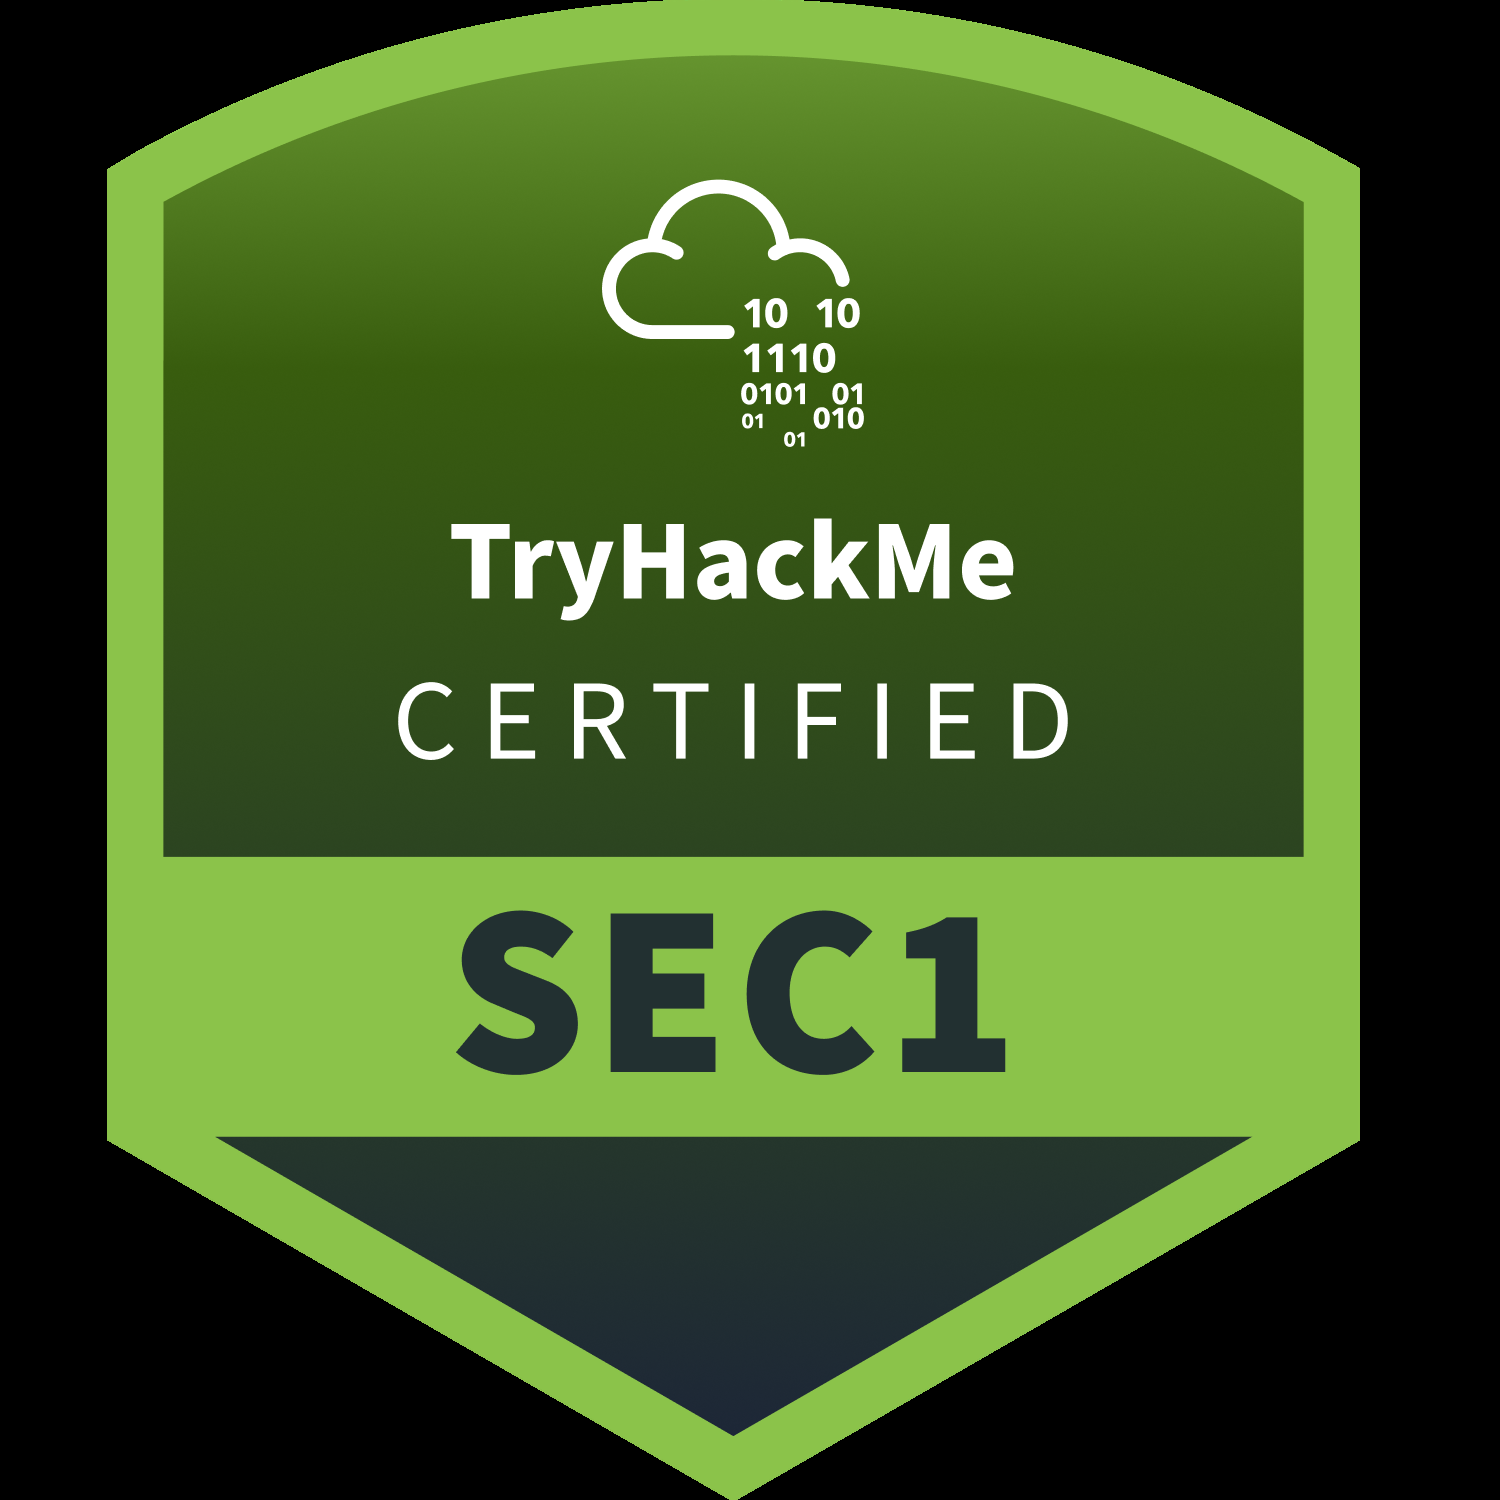
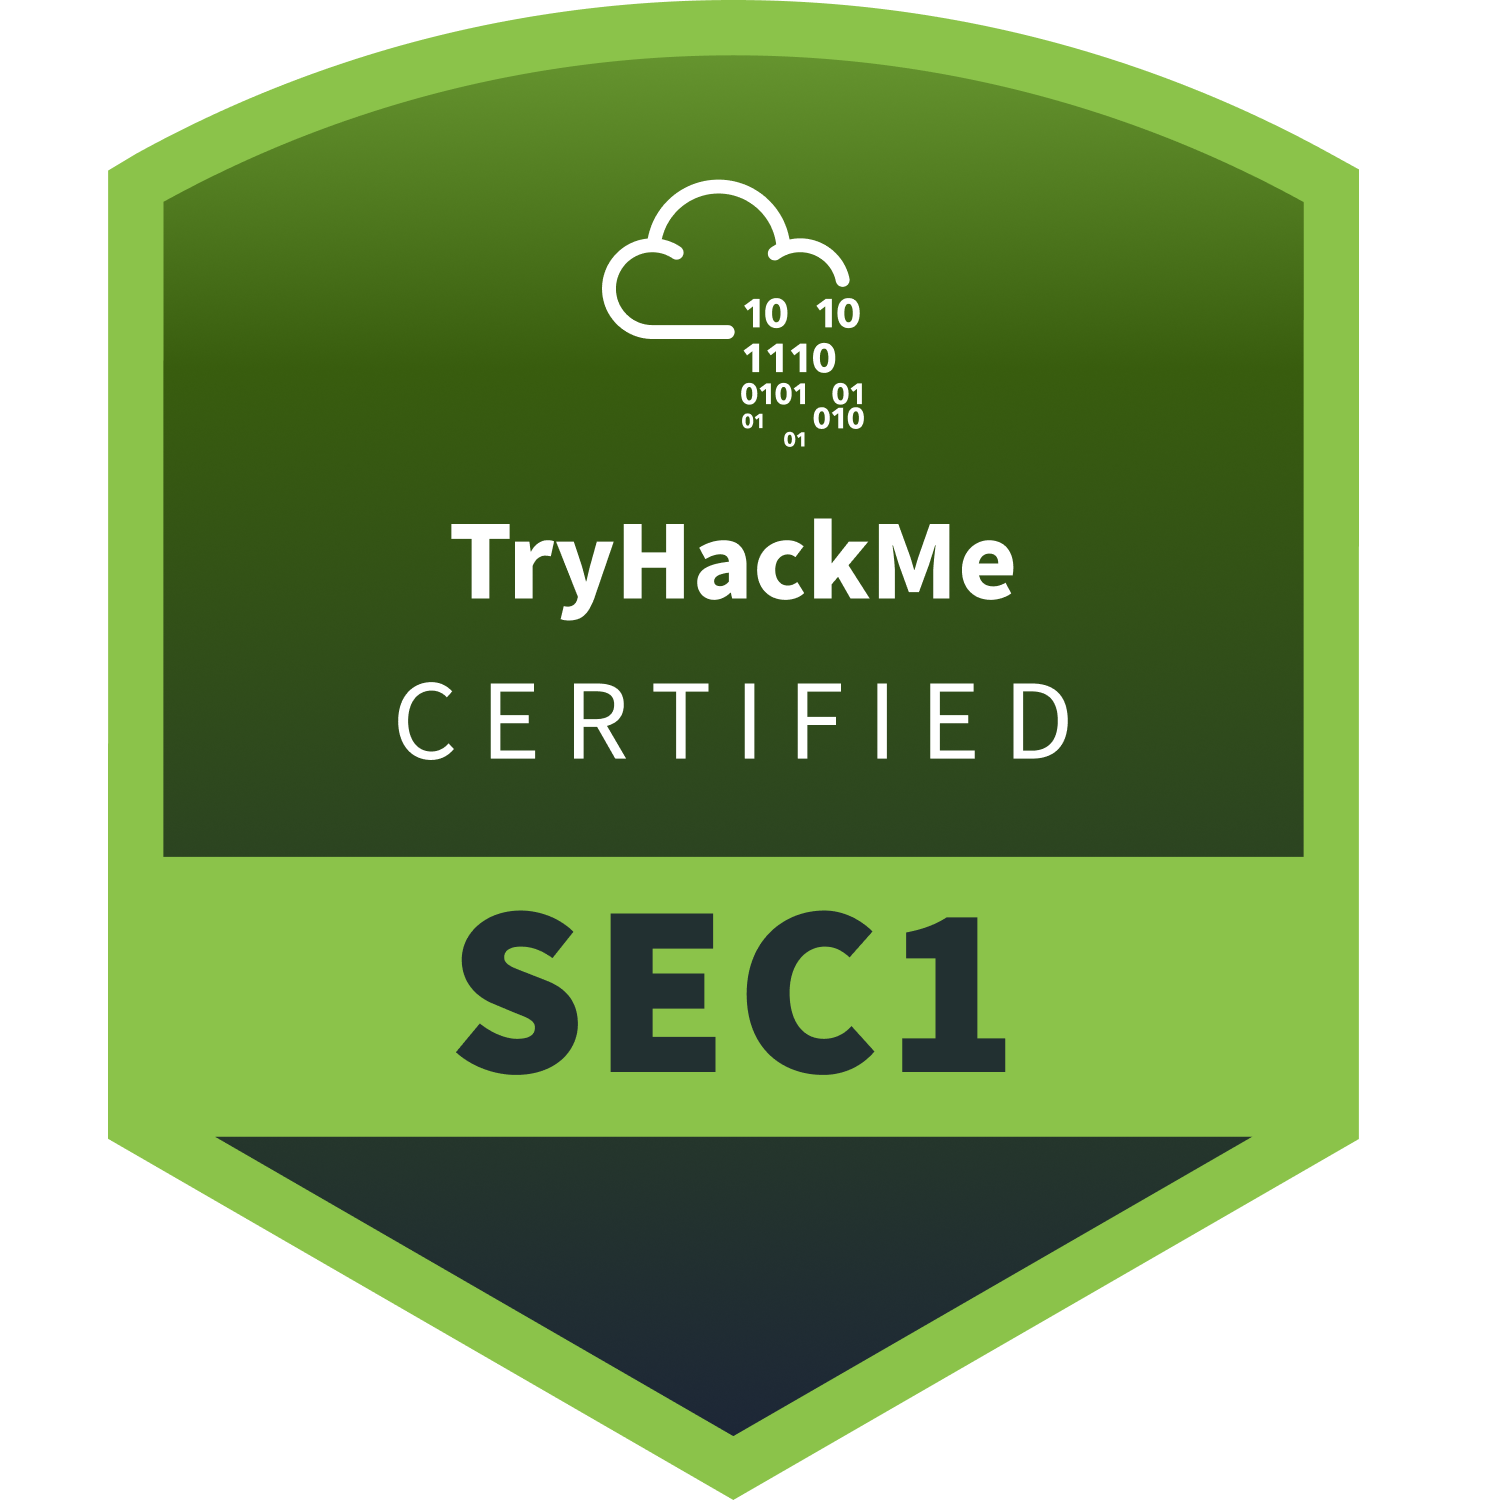
Fix SEC1 badge transparency and point cert cards at TryHackMe PDFs
The SEC1 badge shipped with a black square behind it. pdfimages splits a
PDF image into its colour layer and its soft mask as separate files, and
only the colour layer was used. Recomposited the two with CopyOpacity, so
the badge now has the same transparent background as SEC0 - verified all
three corners at rgba(0,0,0,0) at native resolution on both files.

Certification cards now link to the TryHackMe certificate PDF rather than
Credly, matching how SEC0 originally behaved, with the same 'Completed'
wording. SEC1's certificate URL was recovered from the download's macOS
kMDItemWhereFroms attribute and verified: 200, and the PDF it returns is
the SEC1 certificate. Exam badges continue to link to Credly.

Split of responsibility is now consistent for both TryHackMe certs:
cert card -> TryHackMe certificate PDF, badge -> Credly.

Verified: all 4 links return 200, 2 'Completed' pills, 0 'Verify on Credly'
remaining, terminal cat certs.txt reflects both, 0 broken images, no
console errors.

Changed region(s): [[0.0, 0.0, 1.0, 1.0]]

diff --git a/index.html b/index.html
@@ -1475,7 +1475,7 @@
         </div>
       </div>
       <div class="cert-card-foot">
-        <a class="cert-pill" href="https://www.credly.com/badges/a10b2144-1101-410d-ba41-e22180d04801/public_url" target="_blank" rel="noopener">Verify on Credly</a>
+        <a class="cert-pill" href="https://assets.tryhackme.com/certification-certificate/6aa556b8d38c7aa229bbca58.pdf" target="_blank" rel="noopener">Completed</a>
       </div>
     </div>
     <div class="cert-card thm reveal reveal-delay-2">
@@ -1487,7 +1487,7 @@
         </div>
       </div>
       <div class="cert-card-foot">
-        <a class="cert-pill" href="https://www.credly.com/badges/c8062133-aeff-4ab2-bc9f-86c6039210bd/public_url" target="_blank" rel="noopener">Verify on Credly</a>
+        <a class="cert-pill" href="https://assets.tryhackme.com/certification-certificate/6a6473ed83b00ef659529027.pdf" target="_blank" rel="noopener">Completed</a>
       </div>
     </div>
     <div class="cert-card thm reveal reveal-delay-3">
@@ -1831,8 +1831,8 @@ SITE.certs = [
   { id:'ceh',  earned:true,  cls:'ceh', issuer:'EC-Council', name:'Certified Ethical Hacker (CEH V12)', jsonLdName:'Certified Ethical Hacker (CEH V12)', badge:'\u{1F6E1}',        credentialId:'ECC9421760853' },
   { id:'nse1', earned:true,  cls:'nse', issuer:'Fortinet',   name:'Network Security Expert (NSE) Level 1', jsonLdName:'Fortinet NSE Level 1', badge:'\u{1F512}', credentialId:'PggZRhVh2p' },
   { id:'nse2', earned:true,  cls:'nse', issuer:'Fortinet',   name:'Network Security Expert (NSE) Level 2', jsonLdName:'Fortinet NSE Level 2', badge:'\u{1F512}', credentialId:'uTMYfCWHCd' },
-  { id:'sec1', earned:true,  cls:'thm', issuer:'TryHackMe',  name:'Cyber Security 101 (SEC1)', jsonLdName:'Cyber Security 101 (SEC1)', badge:'\u{1F6E1}', pill:{ text:'Verify on Credly', href:'https://www.credly.com/badges/a10b2144-1101-410d-ba41-e22180d04801/public_url' } },
-  { id:'sec0', earned:true,  cls:'thm', issuer:'TryHackMe',  name:'Pre Security (SEC0)', jsonLdName:'Pre Security (SEC0)', badge:'\u{1F6E1}', pill:{ text:'Verify on Credly', href:'https://www.credly.com/badges/c8062133-aeff-4ab2-bc9f-86c6039210bd/public_url' } },
+  { id:'sec1', earned:true,  cls:'thm', issuer:'TryHackMe',  name:'Cyber Security 101 (SEC1)', jsonLdName:'Cyber Security 101 (SEC1)', badge:'\u{1F6E1}', pill:{ text:'Completed', href:'https://assets.tryhackme.com/certification-certificate/6aa556b8d38c7aa229bbca58.pdf' } },
+  { id:'sec0', earned:true,  cls:'thm', issuer:'TryHackMe',  name:'Pre Security (SEC0)', jsonLdName:'Pre Security (SEC0)', badge:'\u{1F6E1}', pill:{ text:'Completed', href:'https://assets.tryhackme.com/certification-certificate/6a6473ed83b00ef659529027.pdf' } },
   { id:'jrpt', earned:false, cls:'thm', issuer:'TryHackMe',  name:'Junior Penetration Testing Path', badge:'\u{1F3AF}', pill:{ text:'In Progress · Active' } }
 ];
 
